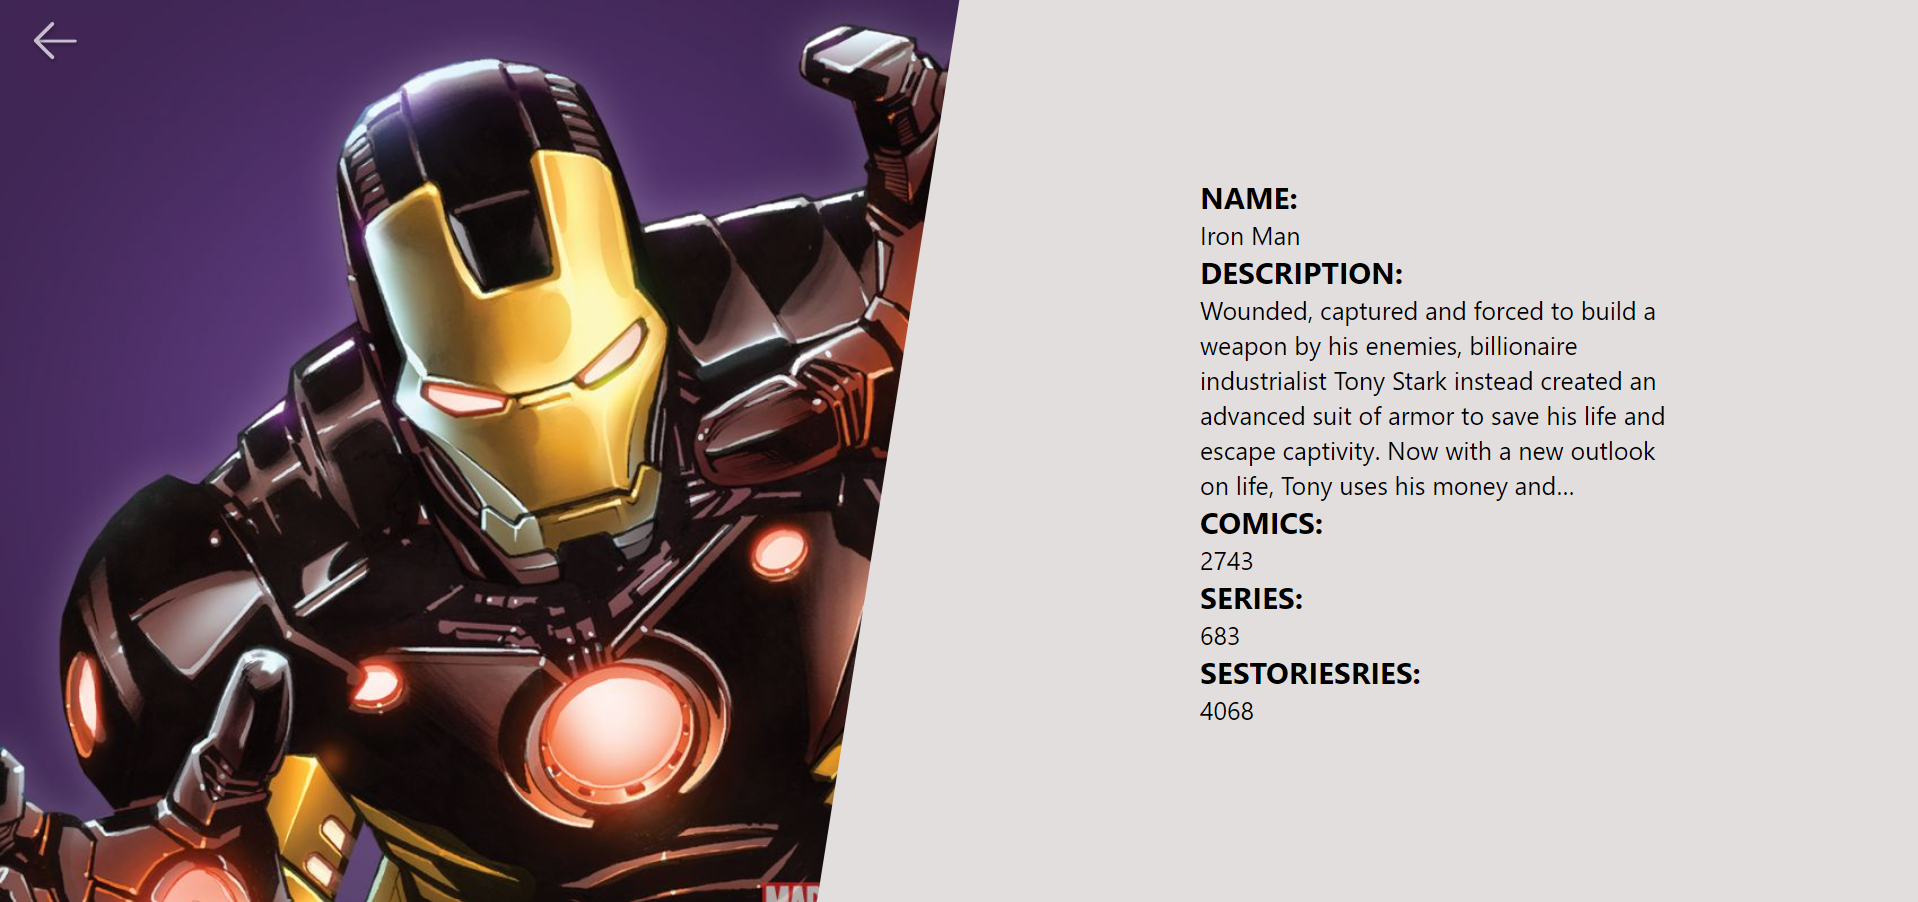
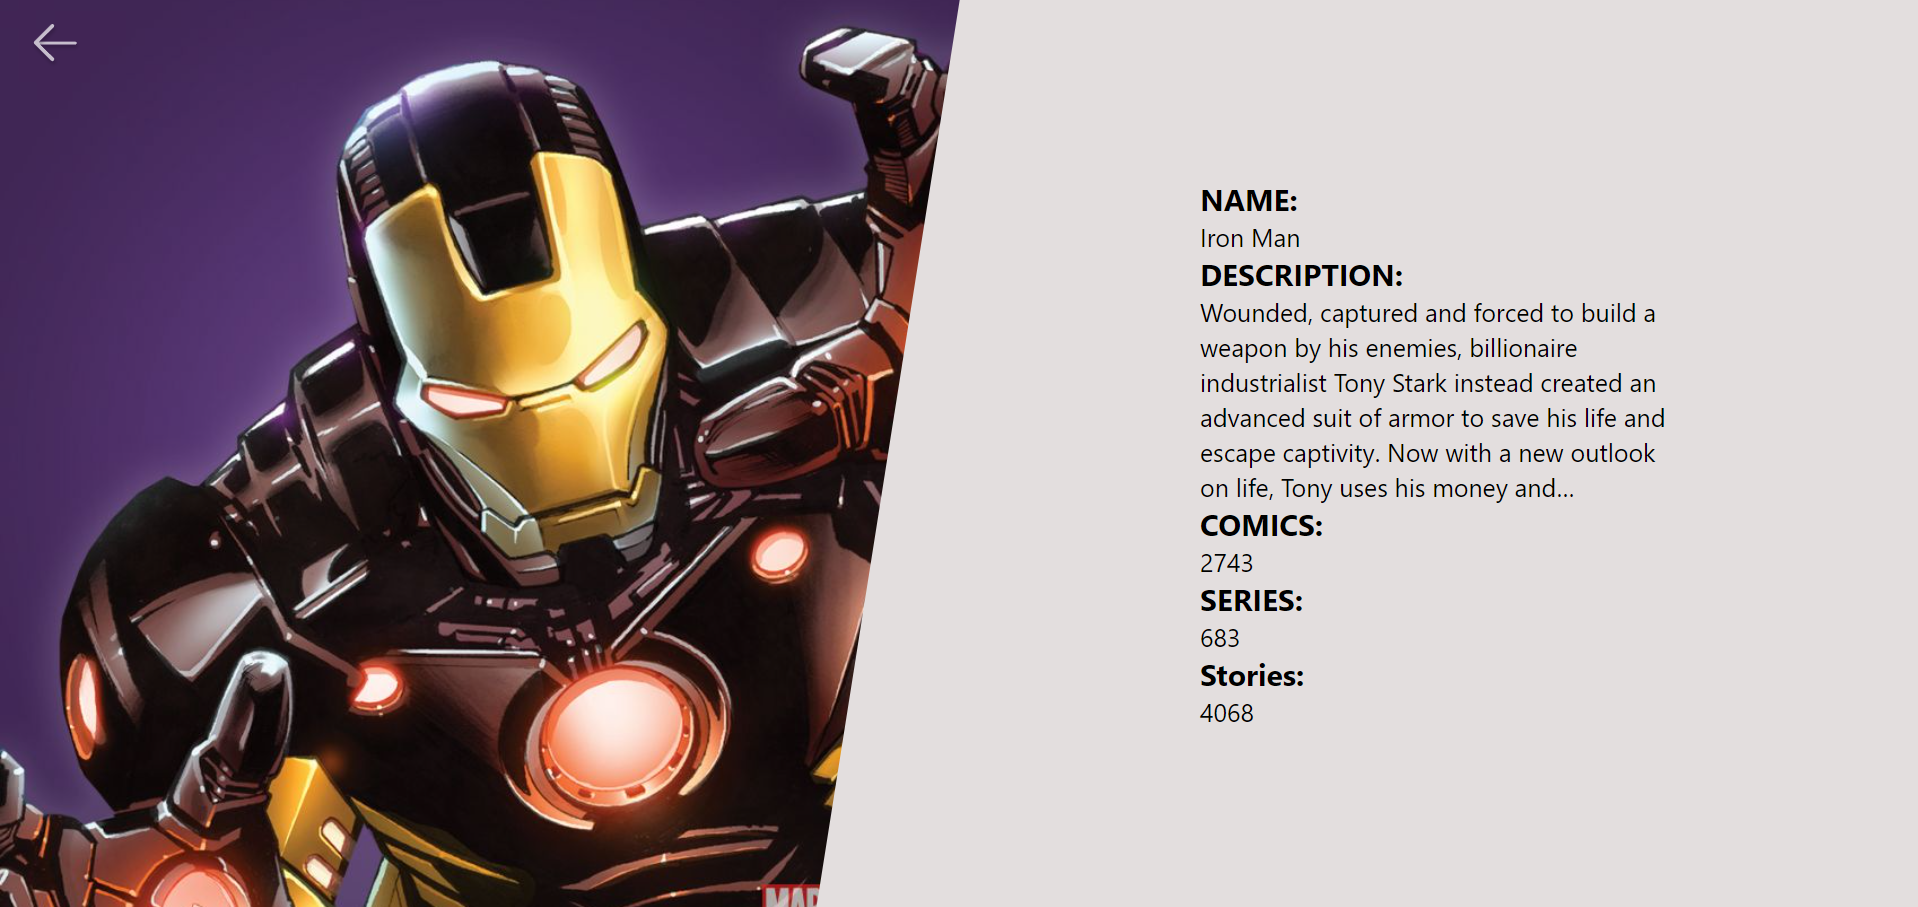
Update README.md and FullPage.jsx

diff --git a/src/Pages/FullPage.jsx b/src/Pages/FullPage.jsx
@@ -132,7 +132,7 @@ function FullPage() {
                                 {hero.series.available || "No Series available."}
                                 
 
-                                <div className='font-bold text-2xl'>SESTORIESRIES: <br /></div>
+                                <div className='font-bold text-2xl'>Stories: <br /></div>
                                 {hero.stories.available || "No Stories available."}
 
                             </div>

diff --git a/README.md b/README.md
@@ -13,6 +13,8 @@ Welcome to **Marvel Characters Explorer**, a web application that lets you explo
 
 ![Marvel Character Grid](public/Marvel.png)
 ![Character Details](public/Marvel2.png)
+![Marvel Character Grid](public/Marvel3.png)
+
 
 ## Tech Stack
 
